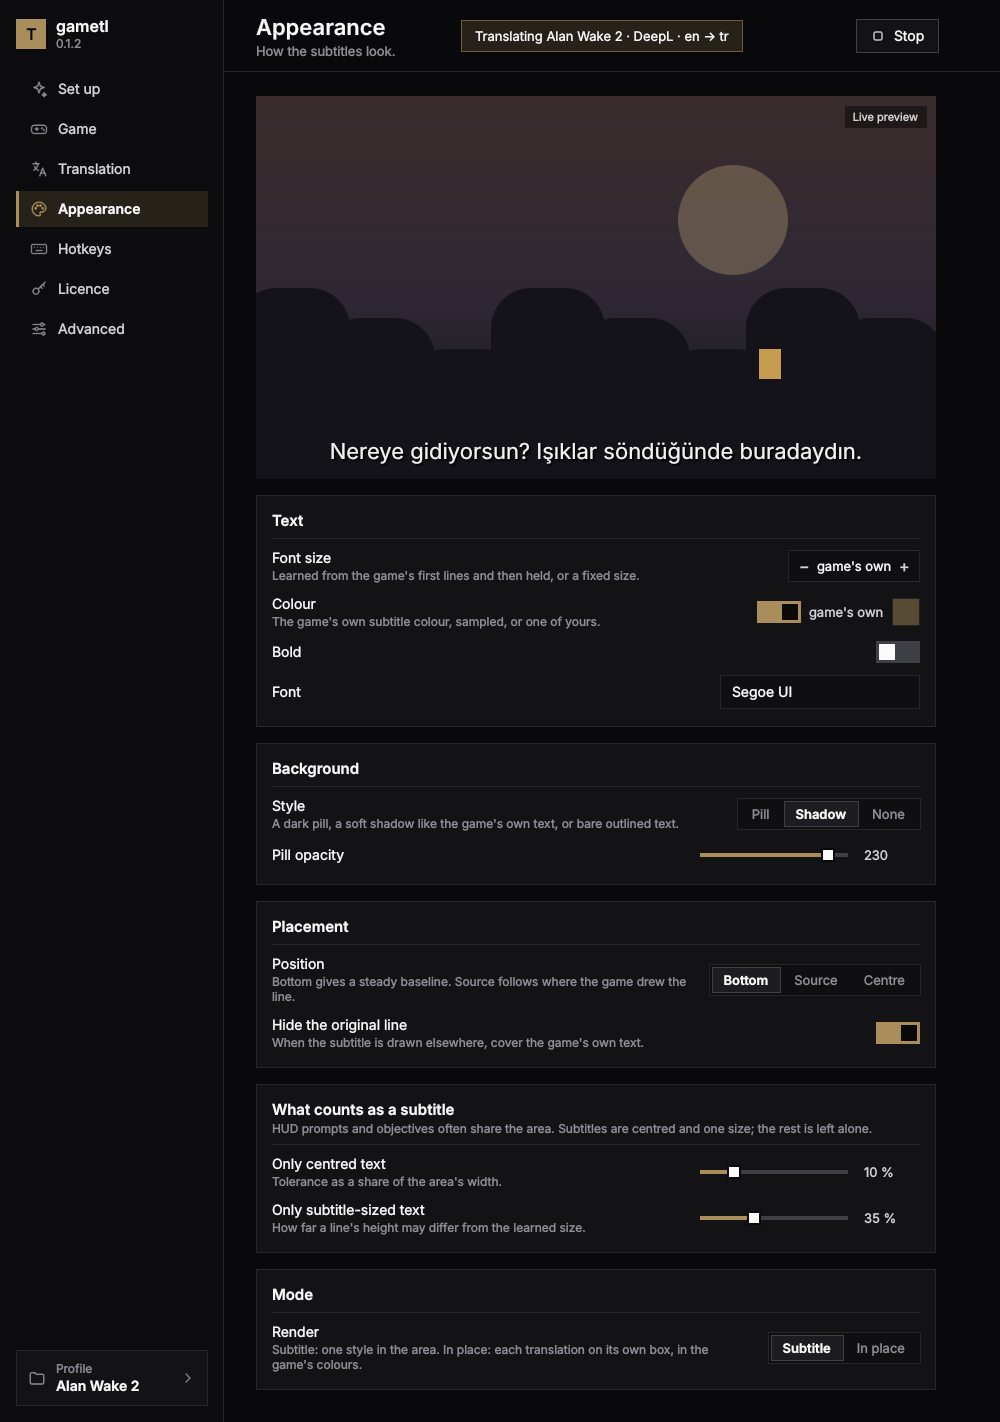
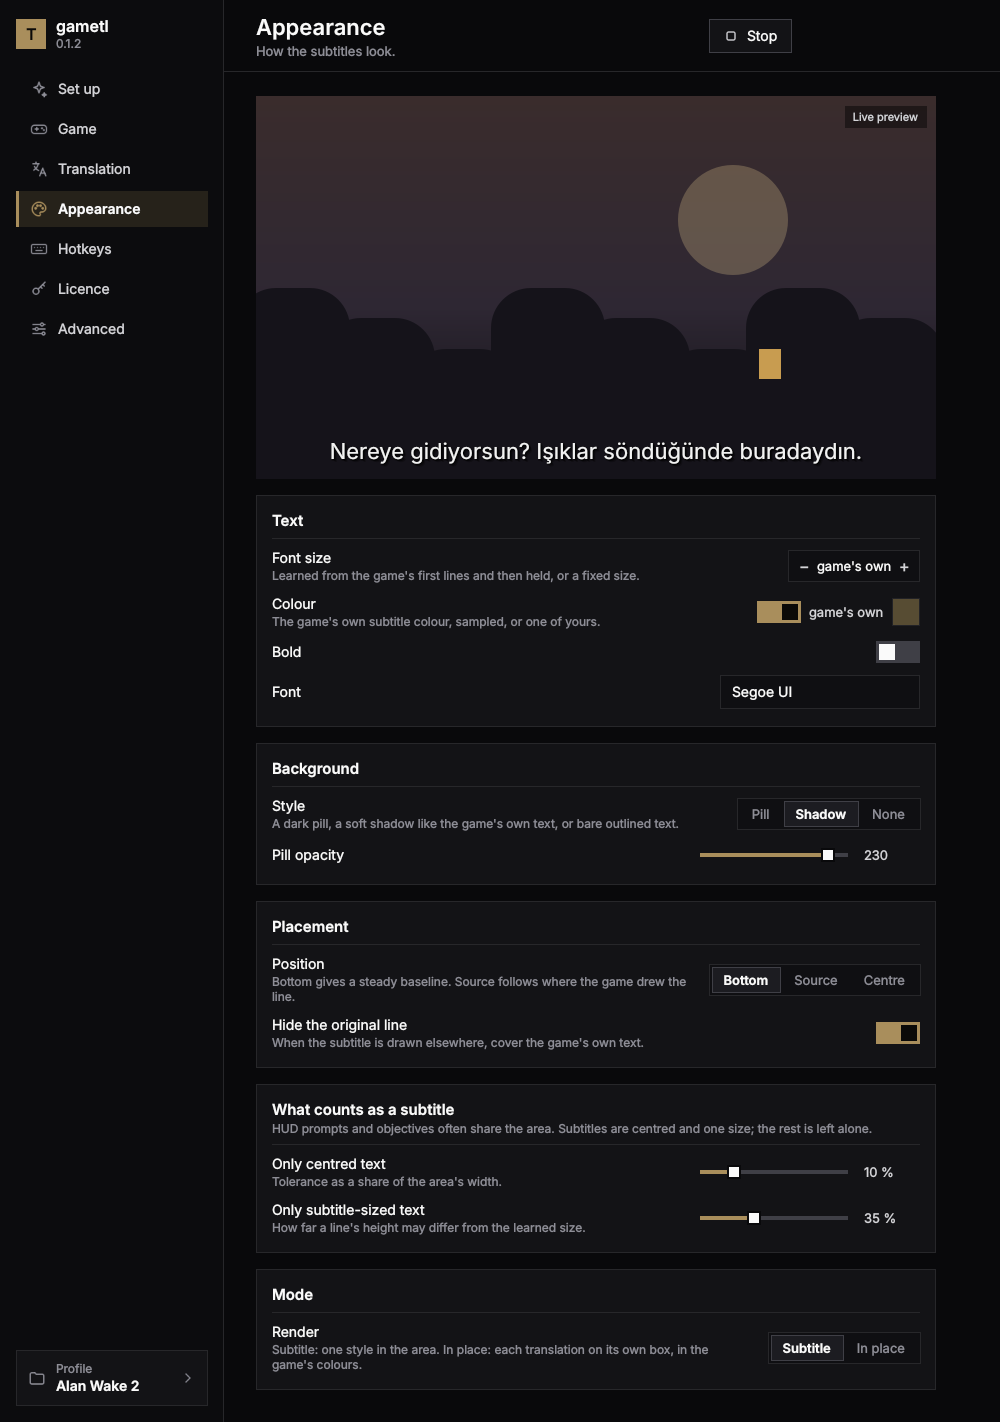
ui: drop the status chip from the settings header
The header showed "Translating <game> · <translator> · <from> → <to>"
beside the Start/Stop button. The button already says whether the
overlay runs, so the chip only repeated it. Remove it and the
statusText property; re-render the mock pages.

Changed region(s): [[0.465, 0.0, 0.775, 0.0619], [0.899, 0.0, 0.93, 0.0309]]

diff --git a/src/gametl/app/qml/Header.qml b/src/gametl/app/qml/Header.qml
@@ -2,13 +2,13 @@ import QtQuick
 import QtQuick.Layouts
 import "Icons.js" as Icons
 
-// Page title on the left; the state of the overlay, in words, and its one button on the right.
+// Page title on the left; the overlay's one button on the right. A visible
+// Stop button is the running indicator; there is no separate status text.
 Item {
     id: root
     property string title: ""
     property string subtitle: ""
     property string status: "idle"  // "idle" | "starting" | "running" | "paused"
-    property string statusText: "Overlay off"
 
     implicitHeight: 72
 
@@ -23,21 +23,6 @@ Item {
             spacing: 2
             Text { text: root.title; color: Theme.text; font.family: Theme.font; font.pixelSize: Theme.sizeHeading; font.weight: Font.DemiBold }
             Text { text: root.subtitle; color: Theme.muted; font.family: Theme.font; font.pixelSize: Theme.sizeSmall + 1; visible: root.subtitle !== "" }
-        }
-
-        Rectangle {
-            height: 32
-            width: chip.implicitWidth + 28
-            color: root.status === "running" ? Theme.accentSoft : Theme.card
-            border.color: root.status === "running" ? Theme.accentDeep : Theme.border
-            Text {
-                id: chip
-                anchors.centerIn: parent
-                text: root.statusText
-                color: root.status === "running" ? Theme.text : Theme.textSoft
-                font.family: Theme.font
-                font.pixelSize: Theme.sizeSmall + 1
-            }
         }
 
         PrimaryButton {

diff --git a/src/gametl/app/qml/Main.qml b/src/gametl/app/qml/Main.qml
@@ -28,7 +28,6 @@ Rectangle {
         property bool subtitleBold: false
         property int subtitleBackgroundIndex: 0  // pill | shadow | none
         property string status: "running"
-        property string statusText: "Translating Alan Wake 2 · DeepL · en → tr"
     }
 
     readonly property var titles: ({
@@ -62,7 +61,6 @@ Rectangle {
                 title: root.titles[root.page][0]
                 subtitle: root.titles[root.page][1]
                 status: backend.status
-                statusText: backend.statusText
             }
 
             Flickable {
